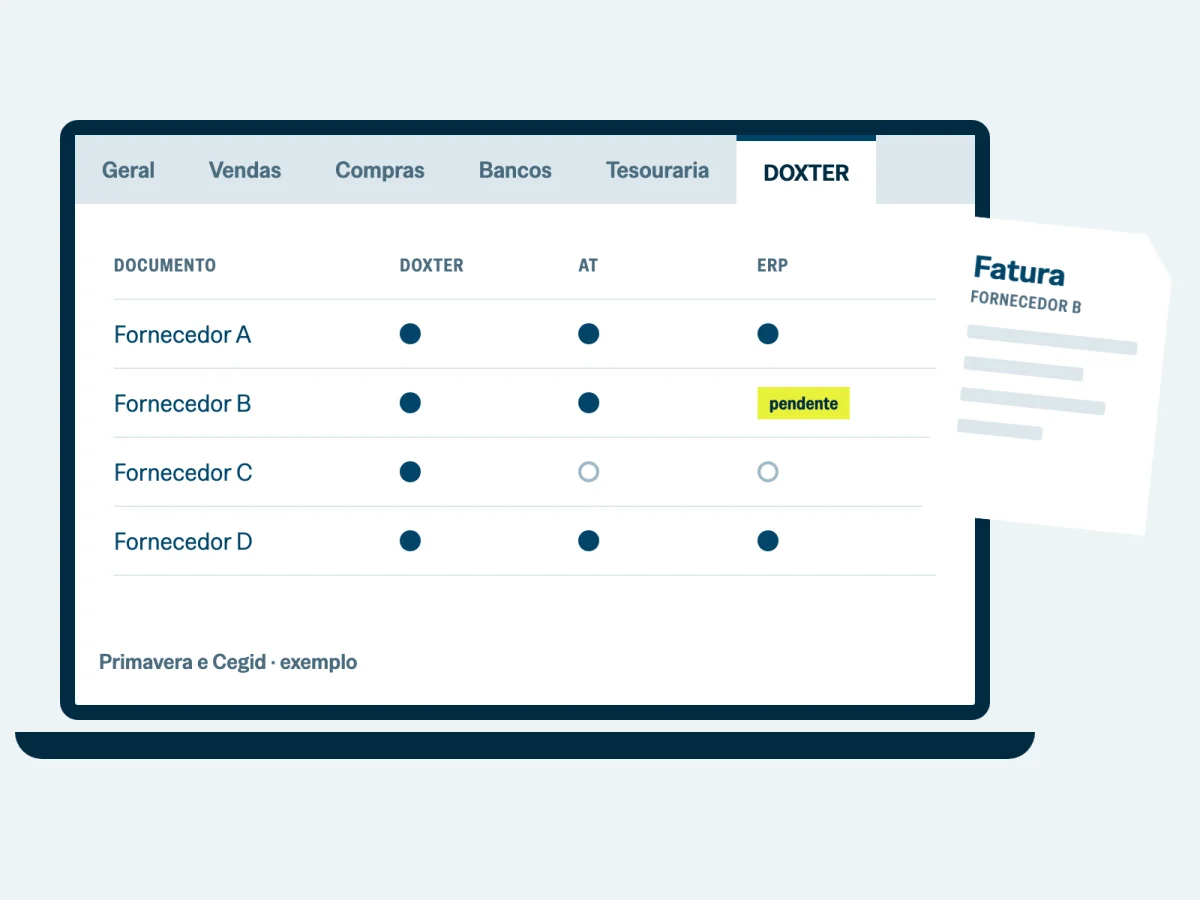
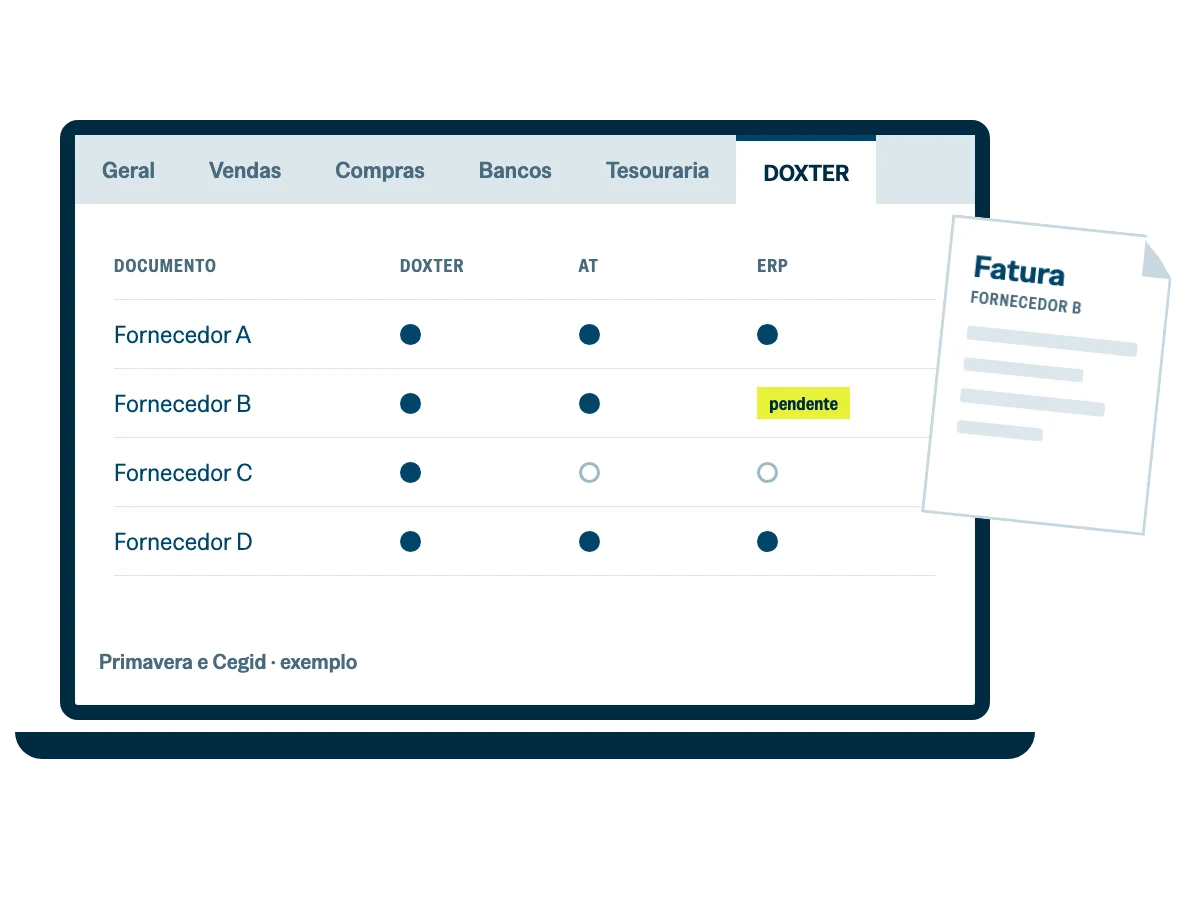
Ilustrações: portátil do plug-in sem fundo e «antes» com folhas e dossiês legíveis

diff --git a/index.html b/index.html
@@ -30,7 +30,7 @@
 <link rel="preconnect" href="https://fonts.googleapis.com">
 <link rel="preconnect" href="https://fonts.gstatic.com" crossorigin>
 <link href="https://fonts.googleapis.com/css2?family=Special+Gothic:wdth,wght@75..125,400..700&display=swap" rel="stylesheet">
-<link rel="stylesheet" href="css/site.css?v=63a475e4">
+<link rel="stylesheet" href="css/site.css?v=a5560eb3">
 <script type="application/ld+json">{"@context": "https://schema.org", "@graph": [{"@type": "Organization", "@id": "https://doxter.pt/#org", "name": "DOXTER", "legalName": "Doxcloud, Lda.", "url": "https://doxter.pt/", "email": "info@doxter.pt", "taxID": "518408221", "address": {"@type": "PostalAddress", "streetAddress": "Rua da Criatividade, Edifícios Centrais, Parque Tecnológico de Óbidos", "postalCode": "2510-216", "addressLocality": "Óbidos", "addressCountry": "PT"}, "sameAs": ["https://www.linkedin.com/company/doxter-gestao-documental"]}, {"@type": "SoftwareApplication", "name": "DOXTER", "applicationCategory": "BusinessApplication", "operatingSystem": "Web", "url": "https://doxter.pt/", "publisher": {"@id": "https://doxter.pt/#org"}, "description": "Software de gestão documental financeira ligado à Autoridade Tributária, com plug-in para ERP Primavera e Cegid."}]}</script>
 </head>
 <body>
@@ -128,7 +128,7 @@
       <p class="sec-intro">Num único ecrã cruzam&#8209;se três fontes: o DOXTER, a Autoridade Tributária e o software de gestão. Os possíveis match e os pendentes ficam numa só janela.</p>
       <a class="ligacao" href="integracoes/primavera-cegid/">Saber mais sobre o plug&#8209;in</a>
     </div>
-    <figure class="ilustra"><img src="assets/ilustracoes/4-plugin-erp.webp" alt="O separador DOXTER dentro do ERP, com o DOXTER, a AT e o ERP no mesmo ecrã e a fatura ao lado (exemplo)" width="1200" height="900" loading="lazy"></figure>
+    <figure class="ilustra"><img src="assets/ilustracoes/4-plugin-erp.webp?v=2" alt="O separador DOXTER dentro do ERP, com o DOXTER, a AT e o ERP no mesmo ecrã e a fatura ao lado (exemplo)" width="1200" height="900" loading="lazy"></figure>
   </div>
 </section>
 
@@ -146,7 +146,7 @@
   </ol>
   <blockquote class="caso-frase"><p>«Comecei mergulhada em papel… e agora visualizo tudo no meu portátil.»</p></blockquote>
   </div>
-  <figure class="ilustra"><img src="assets/ilustracoes/5-antes-depois.webp" alt="Antes, dossiers e papel; agora, as pastas arrumadas no portátil" width="1200" height="900" loading="lazy"></figure>
+  <figure class="ilustra"><img src="assets/ilustracoes/5-antes-depois.webp?v=2" alt="Antes, dossiers e papel; agora, as pastas arrumadas no portátil" width="1200" height="900" loading="lazy"></figure>
   </div>
 </section>
 
@@ -215,6 +215,6 @@
 
 <a class="pedir-fixo" href="#pedir" data-cta="barra">Agendar demonstração</a>
 
-<script src="js/site.js?v=63a475e4" defer></script>
+<script src="js/site.js?v=a5560eb3" defer></script>
 </body>
 </html>

diff --git a/novidades/plugin-cegid-e-portal-das-financas/index.html b/novidades/plugin-cegid-e-portal-das-financas/index.html
@@ -30,7 +30,7 @@
 <link rel="preconnect" href="https://fonts.googleapis.com">
 <link rel="preconnect" href="https://fonts.gstatic.com" crossorigin>
 <link href="https://fonts.googleapis.com/css2?family=Special+Gothic:wdth,wght@75..125,400..700&display=swap" rel="stylesheet">
-<link rel="stylesheet" href="../../css/site.css?v=63a475e4">
+<link rel="stylesheet" href="../../css/site.css?v=a5560eb3">
 <script type="application/ld+json">{"@context": "https://schema.org", "@graph": [{"@type": "Organization", "@id": "https://doxter.pt/#org", "name": "DOXTER", "legalName": "Doxcloud, Lda.", "url": "https://doxter.pt/", "email": "info@doxter.pt", "taxID": "518408221", "address": {"@type": "PostalAddress", "streetAddress": "Rua da Criatividade, Edifícios Centrais, Parque Tecnológico de Óbidos", "postalCode": "2510-216", "addressLocality": "Óbidos", "addressCountry": "PT"}, "sameAs": ["https://www.linkedin.com/company/doxter-gestao-documental"]}, {"@type": "BreadcrumbList", "itemListElement": [{"@type": "ListItem", "position": 1, "name": "DOXTER", "item": "https://doxter.pt/"}, {"@type": "ListItem", "position": 2, "name": "Novidades", "item": "https://doxter.pt/novidades/"}, {"@type": "ListItem", "position": 3, "name": "Plug-in Cegid e atualização do Portal das Finanças", "item": "https://doxter.pt/novidades/plugin-cegid-e-portal-das-financas/"}]}, {"@type": "Article", "headline": "Plug-in Cegid e atualização do Portal das Finanças", "datePublished": "2025-07-31", "description": "Depois da atualização do portal da Autoridade Tributária, o plug-in ganhou aprovação de pagamentos, um novo setup e um Email Watcher mais capaz.", "author": {"@id": "https://doxter.pt/#org"}, "publisher": {"@id": "https://doxter.pt/#org"}, "mainEntityOfPage": "https://doxter.pt/novidades/plugin-cegid-e-portal-das-financas/"}]}</script>
 </head>
 <body>
@@ -147,6 +147,6 @@
 
 <a class="pedir-fixo" href="#pedir" data-cta="barra">Agendar demonstração</a>
 
-<script src="../../js/site.js?v=63a475e4" defer></script>
+<script src="../../js/site.js?v=a5560eb3" defer></script>
 </body>
 </html>

diff --git a/novidades/filtros-extensibilidade-e-logs/index.html b/novidades/filtros-extensibilidade-e-logs/index.html
@@ -30,7 +30,7 @@
 <link rel="preconnect" href="https://fonts.googleapis.com">
 <link rel="preconnect" href="https://fonts.gstatic.com" crossorigin>
 <link href="https://fonts.googleapis.com/css2?family=Special+Gothic:wdth,wght@75..125,400..700&display=swap" rel="stylesheet">
-<link rel="stylesheet" href="../../css/site.css?v=63a475e4">
+<link rel="stylesheet" href="../../css/site.css?v=a5560eb3">
 <script type="application/ld+json">{"@context": "https://schema.org", "@graph": [{"@type": "Organization", "@id": "https://doxter.pt/#org", "name": "DOXTER", "legalName": "Doxcloud, Lda.", "url": "https://doxter.pt/", "email": "info@doxter.pt", "taxID": "518408221", "address": {"@type": "PostalAddress", "streetAddress": "Rua da Criatividade, Edifícios Centrais, Parque Tecnológico de Óbidos", "postalCode": "2510-216", "addressLocality": "Óbidos", "addressCountry": "PT"}, "sameAs": ["https://www.linkedin.com/company/doxter-gestao-documental"]}, {"@type": "BreadcrumbList", "itemListElement": [{"@type": "ListItem", "position": 1, "name": "DOXTER", "item": "https://doxter.pt/"}, {"@type": "ListItem", "position": 2, "name": "Novidades", "item": "https://doxter.pt/novidades/"}, {"@type": "ListItem", "position": 3, "name": "Filtros, extensibilidade e logs no plug-in", "item": "https://doxter.pt/novidades/filtros-extensibilidade-e-logs/"}]}, {"@type": "Article", "headline": "Filtros, extensibilidade e logs no plug-in", "datePublished": "2025-05-22", "description": "Filtro avançado de metadados, um sistema de extensibilidade para parceiros, exportação de documentos de Venda e Documentos Associados dentro do ERP.", "author": {"@id": "https://doxter.pt/#org"}, "publisher": {"@id": "https://doxter.pt/#org"}, "mainEntityOfPage": "https://doxter.pt/novidades/filtros-extensibilidade-e-logs/"}]}</script>
 </head>
 <body>
@@ -141,6 +141,6 @@
 
 <a class="pedir-fixo" href="#pedir" data-cta="barra">Agendar demonstração</a>
 
-<script src="../../js/site.js?v=63a475e4" defer></script>
+<script src="../../js/site.js?v=a5560eb3" defer></script>
 </body>
 </html>

diff --git a/novidades/inbox-global-e-novos-formatos/index.html b/novidades/inbox-global-e-novos-formatos/index.html
@@ -30,7 +30,7 @@
 <link rel="preconnect" href="https://fonts.googleapis.com">
 <link rel="preconnect" href="https://fonts.gstatic.com" crossorigin>
 <link href="https://fonts.googleapis.com/css2?family=Special+Gothic:wdth,wght@75..125,400..700&display=swap" rel="stylesheet">
-<link rel="stylesheet" href="../../css/site.css?v=63a475e4">
+<link rel="stylesheet" href="../../css/site.css?v=a5560eb3">
 <script type="application/ld+json">{"@context": "https://schema.org", "@graph": [{"@type": "Organization", "@id": "https://doxter.pt/#org", "name": "DOXTER", "legalName": "Doxcloud, Lda.", "url": "https://doxter.pt/", "email": "info@doxter.pt", "taxID": "518408221", "address": {"@type": "PostalAddress", "streetAddress": "Rua da Criatividade, Edifícios Centrais, Parque Tecnológico de Óbidos", "postalCode": "2510-216", "addressLocality": "Óbidos", "addressCountry": "PT"}, "sameAs": ["https://www.linkedin.com/company/doxter-gestao-documental"]}, {"@type": "BreadcrumbList", "itemListElement": [{"@type": "ListItem", "position": 1, "name": "DOXTER", "item": "https://doxter.pt/"}, {"@type": "ListItem", "position": 2, "name": "Novidades", "item": "https://doxter.pt/novidades/"}, {"@type": "ListItem", "position": 3, "name": "Inbox Global, novos formatos e plug-in Primavera", "item": "https://doxter.pt/novidades/inbox-global-e-novos-formatos/"}]}, {"@type": "Article", "headline": "Inbox Global, novos formatos e plug-in Primavera", "datePublished": "2026-01-22", "description": "Upload sem indicar a empresa, imagens convertidas para PDF e um plug-in Primavera que importa empresas, utilizadores e permissões.", "author": {"@id": "https://doxter.pt/#org"}, "publisher": {"@id": "https://doxter.pt/#org"}, "mainEntityOfPage": "https://doxter.pt/novidades/inbox-global-e-novos-formatos/"}]}</script>
 </head>
 <body>
@@ -145,6 +145,6 @@
 
 <a class="pedir-fixo" href="#pedir" data-cta="barra">Agendar demonstração</a>
 
-<script src="../../js/site.js?v=63a475e4" defer></script>
+<script src="../../js/site.js?v=a5560eb3" defer></script>
 </body>
 </html>

diff --git a/novidades/mais-estavel-e-com-maior-precisao/index.html b/novidades/mais-estavel-e-com-maior-precisao/index.html
@@ -30,7 +30,7 @@
 <link rel="preconnect" href="https://fonts.googleapis.com">
 <link rel="preconnect" href="https://fonts.gstatic.com" crossorigin>
 <link href="https://fonts.googleapis.com/css2?family=Special+Gothic:wdth,wght@75..125,400..700&display=swap" rel="stylesheet">
-<link rel="stylesheet" href="../../css/site.css?v=63a475e4">
+<link rel="stylesheet" href="../../css/site.css?v=a5560eb3">
 <script type="application/ld+json">{"@context": "https://schema.org", "@graph": [{"@type": "Organization", "@id": "https://doxter.pt/#org", "name": "DOXTER", "legalName": "Doxcloud, Lda.", "url": "https://doxter.pt/", "email": "info@doxter.pt", "taxID": "518408221", "address": {"@type": "PostalAddress", "streetAddress": "Rua da Criatividade, Edifícios Centrais, Parque Tecnológico de Óbidos", "postalCode": "2510-216", "addressLocality": "Óbidos", "addressCountry": "PT"}, "sameAs": ["https://www.linkedin.com/company/doxter-gestao-documental"]}, {"@type": "BreadcrumbList", "itemListElement": [{"@type": "ListItem", "position": 1, "name": "DOXTER", "item": "https://doxter.pt/"}, {"@type": "ListItem", "position": 2, "name": "Novidades", "item": "https://doxter.pt/novidades/"}, {"@type": "ListItem", "position": 3, "name": "Mais estável e com maior precisão", "item": "https://doxter.pt/novidades/mais-estavel-e-com-maior-precisao/"}]}, {"@type": "Article", "headline": "Mais estável e com maior precisão", "datePublished": "2025-11-21", "description": "Melhor leitura de QR Codes com erros de estrutura, uma nova API de gestão e um plug-in que lê PDFs antes rejeitados pelo Primavera.", "author": {"@id": "https://doxter.pt/#org"}, "publisher": {"@id": "https://doxter.pt/#org"}, "mainEntityOfPage": "https://doxter.pt/novidades/mais-estavel-e-com-maior-precisao/"}]}</script>
 </head>
 <body>
@@ -144,6 +144,6 @@
 
 <a class="pedir-fixo" href="#pedir" data-cta="barra">Agendar demonstração</a>
 
-<script src="../../js/site.js?v=63a475e4" defer></script>
+<script src="../../js/site.js?v=a5560eb3" defer></script>
 </body>
 </html>

diff --git a/novidades/gestao-documental-mais-intuitiva/index.html b/novidades/gestao-documental-mais-intuitiva/index.html
@@ -30,7 +30,7 @@
 <link rel="preconnect" href="https://fonts.googleapis.com">
 <link rel="preconnect" href="https://fonts.gstatic.com" crossorigin>
 <link href="https://fonts.googleapis.com/css2?family=Special+Gothic:wdth,wght@75..125,400..700&display=swap" rel="stylesheet">
-<link rel="stylesheet" href="../../css/site.css?v=63a475e4">
+<link rel="stylesheet" href="../../css/site.css?v=a5560eb3">
 <script type="application/ld+json">{"@context": "https://schema.org", "@graph": [{"@type": "Organization", "@id": "https://doxter.pt/#org", "name": "DOXTER", "legalName": "Doxcloud, Lda.", "url": "https://doxter.pt/", "email": "info@doxter.pt", "taxID": "518408221", "address": {"@type": "PostalAddress", "streetAddress": "Rua da Criatividade, Edifícios Centrais, Parque Tecnológico de Óbidos", "postalCode": "2510-216", "addressLocality": "Óbidos", "addressCountry": "PT"}, "sameAs": ["https://www.linkedin.com/company/doxter-gestao-documental"]}, {"@type": "BreadcrumbList", "itemListElement": [{"@type": "ListItem", "position": 1, "name": "DOXTER", "item": "https://doxter.pt/"}, {"@type": "ListItem", "position": 2, "name": "Novidades", "item": "https://doxter.pt/novidades/"}, {"@type": "ListItem", "position": 3, "name": "Gestão documental mais intuitiva", "item": "https://doxter.pt/novidades/gestao-documental-mais-intuitiva/"}]}, {"@type": "Article", "headline": "Gestão documental mais intuitiva", "datePublished": "2025-10-02", "description": "Nova interface para as Associações, um painel por empresa no portal, e Associações e Vistas Personalizadas no plug-in.", "author": {"@id": "https://doxter.pt/#org"}, "publisher": {"@id": "https://doxter.pt/#org"}, "mainEntityOfPage": "https://doxter.pt/novidades/gestao-documental-mais-intuitiva/"}]}</script>
 </head>
 <body>
@@ -147,6 +147,6 @@
 
 <a class="pedir-fixo" href="#pedir" data-cta="barra">Agendar demonstração</a>
 
-<script src="../../js/site.js?v=63a475e4" defer></script>
+<script src="../../js/site.js?v=a5560eb3" defer></script>
 </body>
 </html>

diff --git a/novidades/melhorias-no-plugin/index.html b/novidades/melhorias-no-plugin/index.html
@@ -30,7 +30,7 @@
 <link rel="preconnect" href="https://fonts.googleapis.com">
 <link rel="preconnect" href="https://fonts.gstatic.com" crossorigin>
 <link href="https://fonts.googleapis.com/css2?family=Special+Gothic:wdth,wght@75..125,400..700&display=swap" rel="stylesheet">
-<link rel="stylesheet" href="../../css/site.css?v=63a475e4">
+<link rel="stylesheet" href="../../css/site.css?v=a5560eb3">
 <script type="application/ld+json">{"@context": "https://schema.org", "@graph": [{"@type": "Organization", "@id": "https://doxter.pt/#org", "name": "DOXTER", "legalName": "Doxcloud, Lda.", "url": "https://doxter.pt/", "email": "info@doxter.pt", "taxID": "518408221", "address": {"@type": "PostalAddress", "streetAddress": "Rua da Criatividade, Edifícios Centrais, Parque Tecnológico de Óbidos", "postalCode": "2510-216", "addressLocality": "Óbidos", "addressCountry": "PT"}, "sameAs": ["https://www.linkedin.com/company/doxter-gestao-documental"]}, {"@type": "BreadcrumbList", "itemListElement": [{"@type": "ListItem", "position": 1, "name": "DOXTER", "item": "https://doxter.pt/"}, {"@type": "ListItem", "position": 2, "name": "Novidades", "item": "https://doxter.pt/novidades/"}, {"@type": "ListItem", "position": 3, "name": "Melhorias no plug-in Primavera", "item": "https://doxter.pt/novidades/melhorias-no-plugin/"}]}, {"@type": "Article", "headline": "Melhorias no plug-in Primavera", "datePublished": "2025-03-04", "description": "Preenchimento automático nos editores, atualização automática do plug-in, credenciais da AT encriptadas e recolha de documentos por e-mail genérico.", "author": {"@id": "https://doxter.pt/#org"}, "publisher": {"@id": "https://doxter.pt/#org"}, "mainEntityOfPage": "https://doxter.pt/novidades/melhorias-no-plugin/"}]}</script>
 </head>
 <body>
@@ -148,6 +148,6 @@
 
 <a class="pedir-fixo" href="#pedir" data-cta="barra">Agendar demonstração</a>
 
-<script src="../../js/site.js?v=63a475e4" defer></script>
+<script src="../../js/site.js?v=a5560eb3" defer></script>
 </body>
 </html>

diff --git a/novidades/categorias-personalizadas/index.html b/novidades/categorias-personalizadas/index.html
@@ -30,7 +30,7 @@
 <link rel="preconnect" href="https://fonts.googleapis.com">
 <link rel="preconnect" href="https://fonts.gstatic.com" crossorigin>
 <link href="https://fonts.googleapis.com/css2?family=Special+Gothic:wdth,wght@75..125,400..700&display=swap" rel="stylesheet">
-<link rel="stylesheet" href="../../css/site.css?v=63a475e4">
+<link rel="stylesheet" href="../../css/site.css?v=a5560eb3">
 <script type="application/ld+json">{"@context": "https://schema.org", "@graph": [{"@type": "Organization", "@id": "https://doxter.pt/#org", "name": "DOXTER", "legalName": "Doxcloud, Lda.", "url": "https://doxter.pt/", "email": "info@doxter.pt", "taxID": "518408221", "address": {"@type": "PostalAddress", "streetAddress": "Rua da Criatividade, Edifícios Centrais, Parque Tecnológico de Óbidos", "postalCode": "2510-216", "addressLocality": "Óbidos", "addressCountry": "PT"}, "sameAs": ["https://www.linkedin.com/company/doxter-gestao-documental"]}, {"@type": "BreadcrumbList", "itemListElement": [{"@type": "ListItem", "position": 1, "name": "DOXTER", "item": "https://doxter.pt/"}, {"@type": "ListItem", "position": 2, "name": "Novidades", "item": "https://doxter.pt/novidades/"}, {"@type": "ListItem", "position": 3, "name": "Categorias Personalizadas", "item": "https://doxter.pt/novidades/categorias-personalizadas/"}]}, {"@type": "Article", "headline": "Categorias Personalizadas", "datePublished": "2026-02-05", "description": "Cada empresa passa a criar as suas categorias de documentos. O DOXTER torna-se o arquivo central da empresa, e não só o dos documentos fiscais.", "author": {"@id": "https://doxter.pt/#org"}, "publisher": {"@id": "https://doxter.pt/#org"}, "mainEntityOfPage": "https://doxter.pt/novidades/categorias-personalizadas/"}]}</script>
 </head>
 <body>
@@ -138,6 +138,6 @@
 
 <a class="pedir-fixo" href="#pedir" data-cta="barra">Agendar demonstração</a>
 
-<script src="../../js/site.js?v=63a475e4" defer></script>
+<script src="../../js/site.js?v=a5560eb3" defer></script>
 </body>
 </html>

diff --git a/novidades/novidades-do-plugin-cegid/index.html b/novidades/novidades-do-plugin-cegid/index.html
@@ -30,7 +30,7 @@
 <link rel="preconnect" href="https://fonts.googleapis.com">
 <link rel="preconnect" href="https://fonts.gstatic.com" crossorigin>
 <link href="https://fonts.googleapis.com/css2?family=Special+Gothic:wdth,wght@75..125,400..700&display=swap" rel="stylesheet">
-<link rel="stylesheet" href="../../css/site.css?v=63a475e4">
+<link rel="stylesheet" href="../../css/site.css?v=a5560eb3">
 <script type="application/ld+json">{"@context": "https://schema.org", "@graph": [{"@type": "Organization", "@id": "https://doxter.pt/#org", "name": "DOXTER", "legalName": "Doxcloud, Lda.", "url": "https://doxter.pt/", "email": "info@doxter.pt", "taxID": "518408221", "address": {"@type": "PostalAddress", "streetAddress": "Rua da Criatividade, Edifícios Centrais, Parque Tecnológico de Óbidos", "postalCode": "2510-216", "addressLocality": "Óbidos", "addressCountry": "PT"}, "sameAs": ["https://www.linkedin.com/company/doxter-gestao-documental"]}, {"@type": "BreadcrumbList", "itemListElement": [{"@type": "ListItem", "position": 1, "name": "DOXTER", "item": "https://doxter.pt/"}, {"@type": "ListItem", "position": 2, "name": "Novidades", "item": "https://doxter.pt/novidades/"}, {"@type": "ListItem", "position": 3, "name": "Novidades do plug-in Cegid", "item": "https://doxter.pt/novidades/novidades-do-plugin-cegid/"}]}, {"@type": "Article", "headline": "Novidades do plug-in Cegid", "datePublished": "2025-08-06", "description": "Documentos Internos, leitura mais tolerante de QR Codes, gestão de duplicados e lançamento por taxa de IVA sugerido pelo histórico.", "author": {"@id": "https://doxter.pt/#org"}, "publisher": {"@id": "https://doxter.pt/#org"}, "mainEntityOfPage": "https://doxter.pt/novidades/novidades-do-plugin-cegid/"}]}</script>
 </head>
 <body>
@@ -142,6 +142,6 @@
 
 <a class="pedir-fixo" href="#pedir" data-cta="barra">Agendar demonstração</a>
 
-<script src="../../js/site.js?v=63a475e4" defer></script>
+<script src="../../js/site.js?v=a5560eb3" defer></script>
 </body>
 </html>

diff --git a/novidades/novidades-do-portal/index.html b/novidades/novidades-do-portal/index.html
@@ -30,7 +30,7 @@
 <link rel="preconnect" href="https://fonts.googleapis.com">
 <link rel="preconnect" href="https://fonts.gstatic.com" crossorigin>
 <link href="https://fonts.googleapis.com/css2?family=Special+Gothic:wdth,wght@75..125,400..700&display=swap" rel="stylesheet">
-<link rel="stylesheet" href="../../css/site.css?v=63a475e4">
+<link rel="stylesheet" href="../../css/site.css?v=a5560eb3">
 <script type="application/ld+json">{"@context": "https://schema.org", "@graph": [{"@type": "Organization", "@id": "https://doxter.pt/#org", "name": "DOXTER", "legalName": "Doxcloud, Lda.", "url": "https://doxter.pt/", "email": "info@doxter.pt", "taxID": "518408221", "address": {"@type": "PostalAddress", "streetAddress": "Rua da Criatividade, Edifícios Centrais, Parque Tecnológico de Óbidos", "postalCode": "2510-216", "addressLocality": "Óbidos", "addressCountry": "PT"}, "sameAs": ["https://www.linkedin.com/company/doxter-gestao-documental"]}, {"@type": "BreadcrumbList", "itemListElement": [{"@type": "ListItem", "position": 1, "name": "DOXTER", "item": "https://doxter.pt/"}, {"@type": "ListItem", "position": 2, "name": "Novidades", "item": "https://doxter.pt/novidades/"}, {"@type": "ListItem", "position": 3, "name": "Novidades do portal DOXTER", "item": "https://doxter.pt/novidades/novidades-do-portal/"}]}, {"@type": "Article", "headline": "Novidades do portal DOXTER", "datePublished": "2025-04-01", "description": "Upload sem processamento imediato do QR Code, associações entre documentos e avisos da Inbox com mais informação.", "author": {"@id": "https://doxter.pt/#org"}, "publisher": {"@id": "https://doxter.pt/#org"}, "mainEntityOfPage": "https://doxter.pt/novidades/novidades-do-portal/"}]}</script>
 </head>
 <body>
@@ -138,6 +138,6 @@
 
 <a class="pedir-fixo" href="#pedir" data-cta="barra">Agendar demonstração</a>
 
-<script src="../../js/site.js?v=63a475e4" defer></script>
+<script src="../../js/site.js?v=a5560eb3" defer></script>
 </body>
 </html>

diff --git a/novidades/organizacao-a-sua-medida/index.html b/novidades/organizacao-a-sua-medida/index.html
@@ -30,7 +30,7 @@
 <link rel="preconnect" href="https://fonts.googleapis.com">
 <link rel="preconnect" href="https://fonts.gstatic.com" crossorigin>
 <link href="https://fonts.googleapis.com/css2?family=Special+Gothic:wdth,wght@75..125,400..700&display=swap" rel="stylesheet">
-<link rel="stylesheet" href="../../css/site.css?v=63a475e4">
+<link rel="stylesheet" href="../../css/site.css?v=a5560eb3">
 <script type="application/ld+json">{"@context": "https://schema.org", "@graph": [{"@type": "Organization", "@id": "https://doxter.pt/#org", "name": "DOXTER", "legalName": "Doxcloud, Lda.", "url": "https://doxter.pt/", "email": "info@doxter.pt", "taxID": "518408221", "address": {"@type": "PostalAddress", "streetAddress": "Rua da Criatividade, Edifícios Centrais, Parque Tecnológico de Óbidos", "postalCode": "2510-216", "addressLocality": "Óbidos", "addressCountry": "PT"}, "sameAs": ["https://www.linkedin.com/company/doxter-gestao-documental"]}, {"@type": "BreadcrumbList", "itemListElement": [{"@type": "ListItem", "position": 1, "name": "DOXTER", "item": "https://doxter.pt/"}, {"@type": "ListItem", "position": 2, "name": "Novidades", "item": "https://doxter.pt/novidades/"}, {"@type": "ListItem", "position": 3, "name": "Organização à sua medida", "item": "https://doxter.pt/novidades/organizacao-a-sua-medida/"}]}, {"@type": "Article", "headline": "Organização à sua medida", "datePublished": "2025-10-23", "description": "Uma categoria própria para os documentos de Caixa e Pastas Personalizadas no Explorador do plug-in.", "author": {"@id": "https://doxter.pt/#org"}, "publisher": {"@id": "https://doxter.pt/#org"}, "mainEntityOfPage": "https://doxter.pt/novidades/organizacao-a-sua-medida/"}]}</script>
 </head>
 <body>
@@ -137,6 +137,6 @@
 
 <a class="pedir-fixo" href="#pedir" data-cta="barra">Agendar demonstração</a>
 
-<script src="../../js/site.js?v=63a475e4" defer></script>
+<script src="../../js/site.js?v=a5560eb3" defer></script>
 </body>
 </html>

diff --git a/integracoes/primavera-cegid/index.html b/integracoes/primavera-cegid/index.html
@@ -30,7 +30,7 @@
 <link rel="preconnect" href="https://fonts.googleapis.com">
 <link rel="preconnect" href="https://fonts.gstatic.com" crossorigin>
 <link href="https://fonts.googleapis.com/css2?family=Special+Gothic:wdth,wght@75..125,400..700&display=swap" rel="stylesheet">
-<link rel="stylesheet" href="../../css/site.css?v=63a475e4">
+<link rel="stylesheet" href="../../css/site.css?v=a5560eb3">
 <script type="application/ld+json">{"@context": "https://schema.org", "@graph": [{"@type": "Organization", "@id": "https://doxter.pt/#org", "name": "DOXTER", "legalName": "Doxcloud, Lda.", "url": "https://doxter.pt/", "email": "info@doxter.pt", "taxID": "518408221", "address": {"@type": "PostalAddress", "streetAddress": "Rua da Criatividade, Edifícios Centrais, Parque Tecnológico de Óbidos", "postalCode": "2510-216", "addressLocality": "Óbidos", "addressCountry": "PT"}, "sameAs": ["https://www.linkedin.com/company/doxter-gestao-documental"]}, {"@type": "BreadcrumbList", "itemListElement": [{"@type": "ListItem", "position": 1, "name": "DOXTER", "item": "https://doxter.pt/"}, {"@type": "ListItem", "position": 2, "name": "Plug-in para Primavera e Cegid", "item": "https://doxter.pt/integracoes/primavera-cegid/"}]}]}</script>
 </head>
 <body>
@@ -162,6 +162,6 @@
 
 <a class="pedir-fixo" href="#pedir" data-cta="barra">Agendar demonstração</a>
 
-<script src="../../js/site.js?v=63a475e4" defer></script>
+<script src="../../js/site.js?v=a5560eb3" defer></script>
 </body>
 </html>
